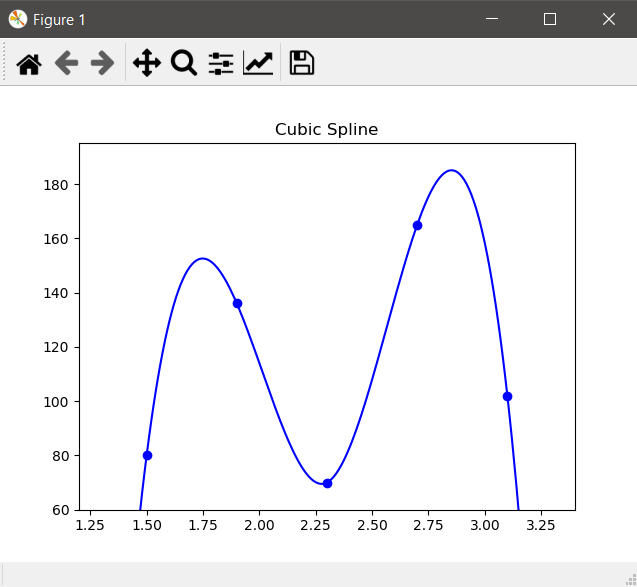
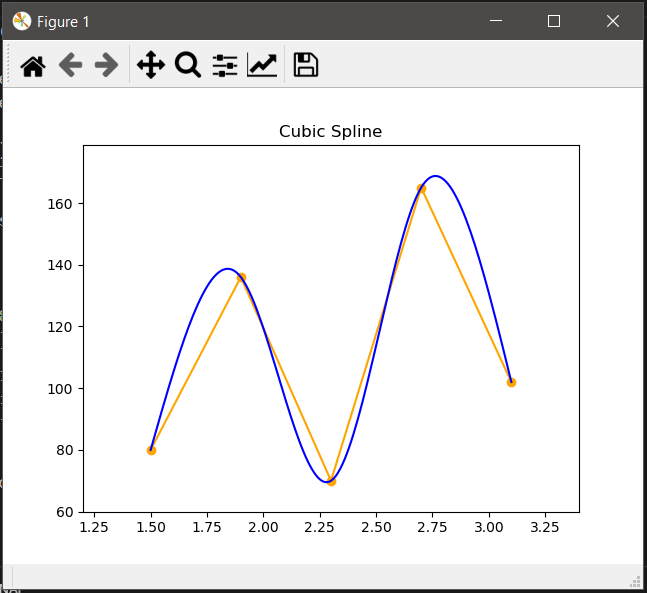
Added own implementation

diff --git a/lab4/interpolate.py b/lab4/interpolate.py
@@ -1,26 +1,91 @@
 import numpy as np
 import matplotlib.pyplot as plt
 
-from scipy import interpolate
-from scipy.interpolate import interp1d
+
+def jacobi(A, b, x0, tol, n_iterations=300):
+    n = A.shape[0]
+    x = x0.copy()
+    x_prev = x0.copy()
+    counter = 0
+    x_diff = tol+1
+    
+    while (x_diff > tol) and (counter < n_iterations):
+        for i in range(0, n):
+            s = 0
+            for j in range(0,n):
+                if i != j:
+                    s += A[i,j] * x_prev[j] 
+            
+            x[i] = (b[i] - s) / A[i,i]
+
+        counter += 1
+        x_diff = (np.sum((x-x_prev)**2))**0.5 
+        x_prev = x.copy()
+
+    return x
+
+def cubic_spline(x, y, tol = 1e-100):
+    x = np.array(x)
+    y = np.array(y)
+
+    if np.any(np.diff(x) < 0):
+        idx = np.argsort(x)
+        x = x[idx]
+        y = y[idx]
+
+    size = len(x)
+    delta_x = np.diff(x)
+    delta_y = np.diff(y)
+    
+    A = np.zeros(shape = (size,size))
+    b = np.zeros(shape=(size,1))
+    A[0,0] = 1
+    A[-1,-1] = 1
+    
+    for i in range(1,size-1):
+        A[i, i-1] = delta_x[i-1]
+        A[i, i+1] = delta_x[i]
+        A[i,i] = 2*(delta_x[i-1]+delta_x[i])
+        b[i,0] = 3*(delta_y[i]/delta_x[i] - delta_y[i-1]/delta_x[i-1])
+
+    c = jacobi(A, b, np.zeros(len(A)), tol = tol, n_iterations=1000)
+    
+    d = np.zeros(shape = (size-1,1))
+    b = np.zeros(shape = (size-1,1))
+    for i in range(0,len(d)):
+        d[i] = (c[i+1] - c[i]) / (3*delta_x[i])
+        b[i] = (delta_y[i]/delta_x[i]) - (delta_x[i]/3)*(2*c[i] + c[i+1])    
+    
+    return y, b.squeeze(), c.squeeze(), d.squeeze()
 
 
-points = np.array([[1.5, 80],
-                   [1.9, 136],
-                   [2.3, 70],
-                   [2.7, 165],
-                   [3.1, 102]])
-x = points[:,0]
-y = points[:,1]
+if __name__ == "__main__":
+    points = np.array([[1.5, 80],
+                    [1.9, 136],
+                    [2.3, 70],
+                    [2.7, 165],
+                    [3.1, 102]])
+    x_points = points[:,0]
+    y_points = points[:,1]
+    coeffs = cubic_spline(x_points, y_points)
 
-tck = interpolate.splrep(x, y, s=0)
+    x_interp = []
+    y_interp = []
+    for index, xi in enumerate(x_points[:-1]):
+        for x in np.arange(x_points[index], x_points[index + 1], 0.01):
+            y = coeffs[0][index] + coeffs[1][index]*(x-xi) + coeffs[2][index]*((x-xi)**2) + coeffs[3][index]*((x-xi)**3) 
+            x_interp.append(x)
+            y_interp.append(y)
+    x_interp.append(x_points[-1])
+    y_interp.append(y_points[-1])
+    
+    print("Коефіцієнти сплайна:\na = {}\nb = {}\nc = {}\nd = {}".format(
+        coeffs[0], coeffs[1], coeffs[2], coeffs[3]))
 
-x_new = np.arange(1.4, 3.3, 0.01)
-y_new = interpolate.splev(x_new, tck, der=0)
+    plt.xlim([min(x_points) - 0.3, max(x_points) + 0.3])
+    plt.ylim([min(y_points) - 10, max(y_interp) + 10])
+    plt.plot(x_points, y_points, '-o', color='orange')
+    plt.plot(x_interp, y_interp, color='blue')
+    plt.title('Cubic Spline')
 
-plt.xlim([min(x) - 0.3, max(x) + 0.3])
-plt.ylim([min(y) - 10, max(y_new) + 10])
-plt.plot(x, y, 'o', x_new, y_new, color='blue')
-plt.title('Cubic Spline')
-
-plt.show()
+    plt.show()
